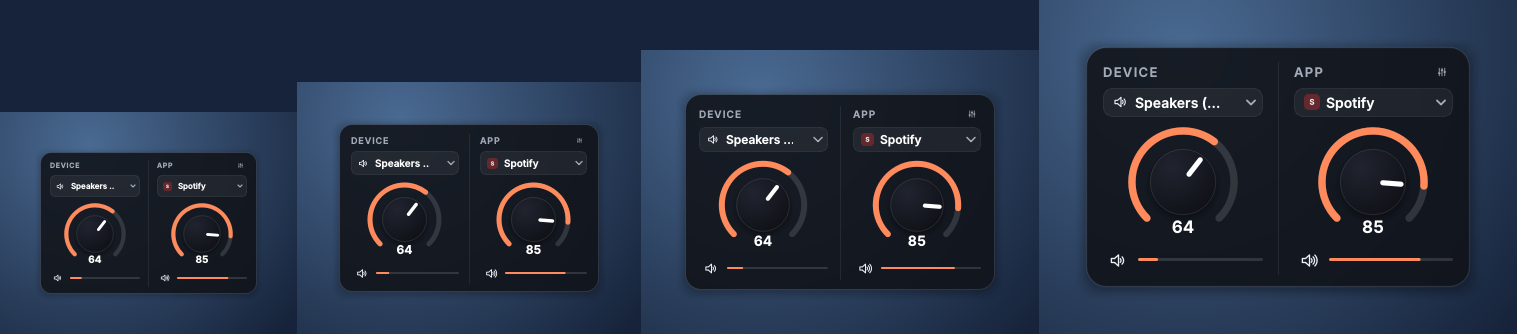
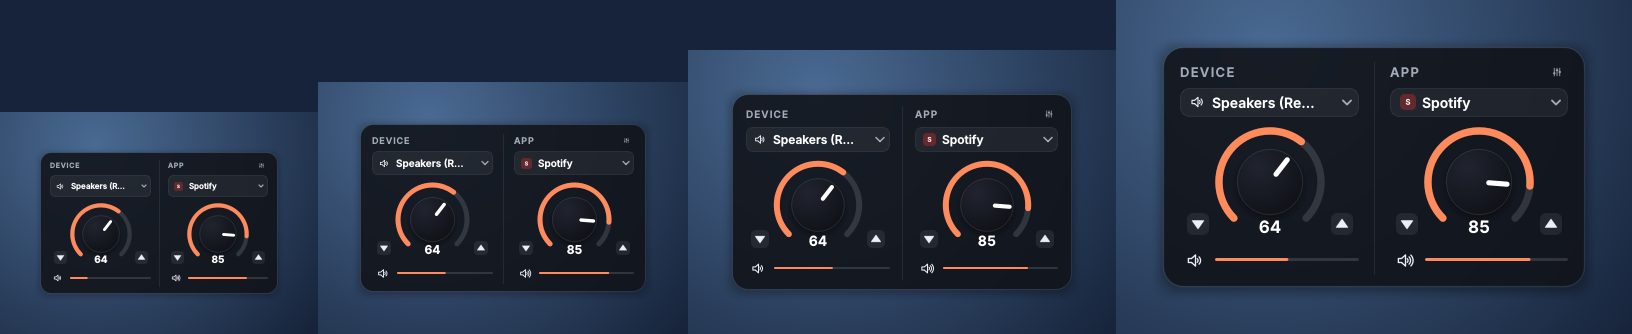
Dials: up/down arrows beside each knob
Each arrow steps the volume 1% and repeats while held. README now covers
clicking, dragging and the arrows.

Claude-Session: https://claude.ai/code/session_0134w67QWVQxrmXkbUc9Kjid

diff --git a/src/volume_mixer/dials.py b/src/volume_mixer/dials.py
@@ -5,8 +5,9 @@ whichever output Windows is using, so out of the box it's the master
 volume). The right dial controls an app picked from its dropdown.
 
 Click anywhere on a dial's scale and it jumps to that volume; drag around
-the dial and it follows the mouse. The scroll wheel moves it 2% a notch
-(1% with Shift), and Shift-dragging moves it in fine steps.
+the dial and it follows the mouse. The arrows either side step it 1% at a
+time (hold one to keep going), the scroll wheel moves it 2% a notch (1% with
+Shift), and Shift-dragging moves it in fine steps.
 """
 
 from __future__ import annotations
@@ -24,6 +25,7 @@ from PySide6.QtWidgets import (
     QStyle,
     QStyleOptionComboBox,
     QStylePainter,
+    QToolButton,
     QVBoxLayout,
     QWidget,
 )
@@ -39,6 +41,9 @@ START = 225.0  # angle of 0% (bottom-left), counter-clockwise from 3 o'clock
 DRAG_PER_PIXEL = 0.5  # dragging from the centre: volume points per pixel
 FINE_PER_PIXEL = 0.2  # Shift-dragging: fine steps
 HUB = 0.22  # pressing inside this share of the radius drags instead of jumping
+ARROW_STEP = 1  # volume points per arrow click
+ARROW_REPEAT_DELAY_MS = 350  # hold an arrow this long and it starts repeating...
+ARROW_REPEAT_MS = 45  # ...this often
 
 
 def value_at_angle(degrees_ccw: float) -> int:
@@ -367,8 +372,20 @@ class ThemedCombo(QComboBox):
         painter.drawPolyline([QPointF(cx - w, cy - w / 2), QPointF(cx, cy + w / 2), QPointF(cx + w, cy - w / 2)])
 
 
+def step_button(up: bool) -> QToolButton:
+    """An arrow that turns the dial up or down a step, repeating while held."""
+    btn = icon_button("Turn up 1%" if up else "Turn down 1%", px(20))
+    btn.setIcon(icons.step_arrow(px(20), up=up))
+    btn.setFixedSize(px(24), px(24))
+    btn.setAutoRepeat(True)
+    btn.setAutoRepeatDelay(ARROW_REPEAT_DELAY_MS)
+    btn.setAutoRepeatInterval(ARROW_REPEAT_MS)
+    return btn
+
+
 class DialColumn(QWidget):
-    """Label, dropdown, knob, and a mute button with a level meter."""
+    """Label, dropdown, knob with step arrows, and a mute button with a
+    level meter."""
 
     volumeChanged = Signal(int)
     muteClicked = Signal()
@@ -384,6 +401,10 @@ class DialColumn(QWidget):
         self.combo = ThemedCombo()
         self.knob = Knob(px(92))
         self.knob.valueChanged.connect(self.volumeChanged)
+        self.down_btn = step_button(up=False)
+        self.up_btn = step_button(up=True)
+        self.down_btn.clicked.connect(lambda: self.step(-ARROW_STEP))
+        self.up_btn.clicked.connect(lambda: self.step(ARROW_STEP))
         self.mute_btn = icon_button("Mute", px(15))
         self.mute_btn.clicked.connect(self.muteClicked)
         self.meter = LevelMeter(meter_height(2.5))
@@ -400,12 +421,27 @@ class DialColumn(QWidget):
         lay.addLayout(self.header)
         lay.addWidget(self.combo)
         lay.addSpacing(px(2))
-        lay.addWidget(self.knob, 0, Qt.AlignHCenter)
+        # Down arrow by the 0% end of the scale, up arrow by the 100% end.
+        knob_row = QHBoxLayout()
+        knob_row.setContentsMargins(0, 0, 0, 0)
+        knob_row.setSpacing(0)
+        knob_row.addStretch(1)
+        knob_row.addWidget(self.down_btn, 0, Qt.AlignBottom)
+        knob_row.addWidget(self.knob)
+        knob_row.addWidget(self.up_btn, 0, Qt.AlignBottom)
+        knob_row.addStretch(1)
+        lay.addLayout(knob_row)
         lay.addLayout(bottom)
+
+    def step(self, amount: int) -> None:
+        if self.knob.isEnabled():
+            self.knob.setValue(self.knob.value() + amount)
 
     def show_state(self, volume: int, muted: bool, is_input: bool, enabled: bool = True) -> None:
         self.knob.setEnabled(enabled)
         self.mute_btn.setEnabled(enabled)
+        self.down_btn.setEnabled(enabled)
+        self.up_btn.setEnabled(enabled)
         self.knob.set_value_quietly(volume)
         self.knob.set_muted(muted)
         size = px(15)

diff --git a/tests/test_window.py b/tests/test_window.py
@@ -551,3 +551,40 @@ def test_value_at_angle():
     assert value_at_angle(-45) == 100  # bottom-right
     assert value_at_angle(-60) == 100  # in the gap, nearer the full end
     assert value_at_angle(240) == 0  # in the gap, nearer the empty end
+
+
+def test_arrows_step_the_dial(window):
+    w, backend = window
+    col = _dials(w).device_col
+    start = col.knob.value()
+    col.up_btn.click()
+    col.up_btn.click()
+    assert col.knob.value() == start + 2
+    assert backend.devices["spk"].volume == start + 2
+    col.down_btn.click()
+    assert backend.devices["spk"].volume == start + 1
+
+
+def test_arrows_stop_at_the_ends(window):
+    w, backend = window
+    col = _dials(w).app_col
+    col.knob.setValue(100)
+    col.up_btn.click()
+    assert col.knob.value() == 100
+    col.knob.setValue(0)
+    col.down_btn.click()
+    assert col.knob.value() == 0
+
+
+def test_arrows_repeat_while_held(window):
+    w, _ = window
+    col = _dials(w).device_col
+    assert col.up_btn.autoRepeat() and col.down_btn.autoRepeat()
+
+
+def test_arrows_disabled_when_nothing_to_control(window):
+    w, backend = window
+    dials = _dials(w)
+    backend.apps.clear()
+    w.refresh()
+    assert not dials.app_col.up_btn.isEnabled() and not dials.app_col.down_btn.isEnabled()

diff --git a/src/volume_mixer/icons.py b/src/volume_mixer/icons.py
@@ -109,6 +109,28 @@ def chevron(size: int, up: bool) -> QIcon:
     return QIcon(pm)
 
 
+def step_arrow(size: int, up: bool) -> QIcon:
+    """A solid up or down arrow on a small tile: the dials' step buttons."""
+    pm, p = _canvas(size)
+    s = size / 24.0
+    _tile(p, 24 * s)
+    path = QPainterPath()
+    if up:
+        path.moveTo(12 * s, 7 * s)
+        path.lineTo(18 * s, 15.5 * s)
+        path.lineTo(6 * s, 15.5 * s)
+    else:
+        path.moveTo(12 * s, 17 * s)
+        path.lineTo(18 * s, 8.5 * s)
+        path.lineTo(6 * s, 8.5 * s)
+    path.closeSubpath()
+    p.setPen(_pen(theme.P.text, 1.2 * s))
+    p.setBrush(theme.P.text)
+    p.drawPath(path)
+    p.end()
+    return QIcon(pm)
+
+
 def knob(size: int) -> QIcon:
     """A small dial: a ring with a pointer (the "switch to dials" button)."""
     pm, p = _canvas(size)

diff --git a/src/volume_mixer/window.py b/src/volume_mixer/window.py
@@ -57,7 +57,7 @@ TAB_APPS = 1
 TAB_KEYS = ("devices", "apps")
 
 PANEL_WIDTH = 330  # at normal size
-DIALS_WIDTH = 310  # the Extra small (dials) view, at its own scale
+DIALS_WIDTH = 340  # the Extra small (dials) view, at its own scale
 MAX_LIST_HEIGHT = 300  # rows beyond this scroll
 SCREEN_GAP = 24  # gap from the screen edge on first launch
 
